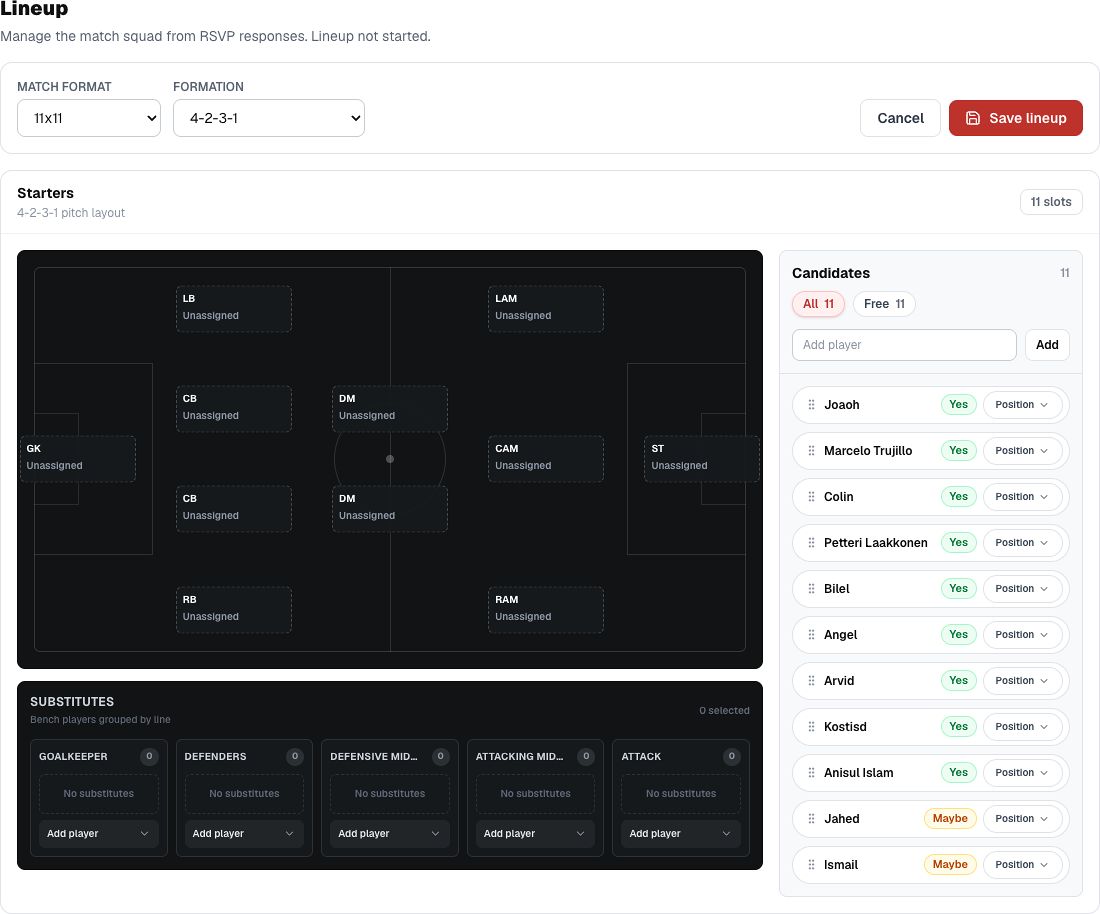
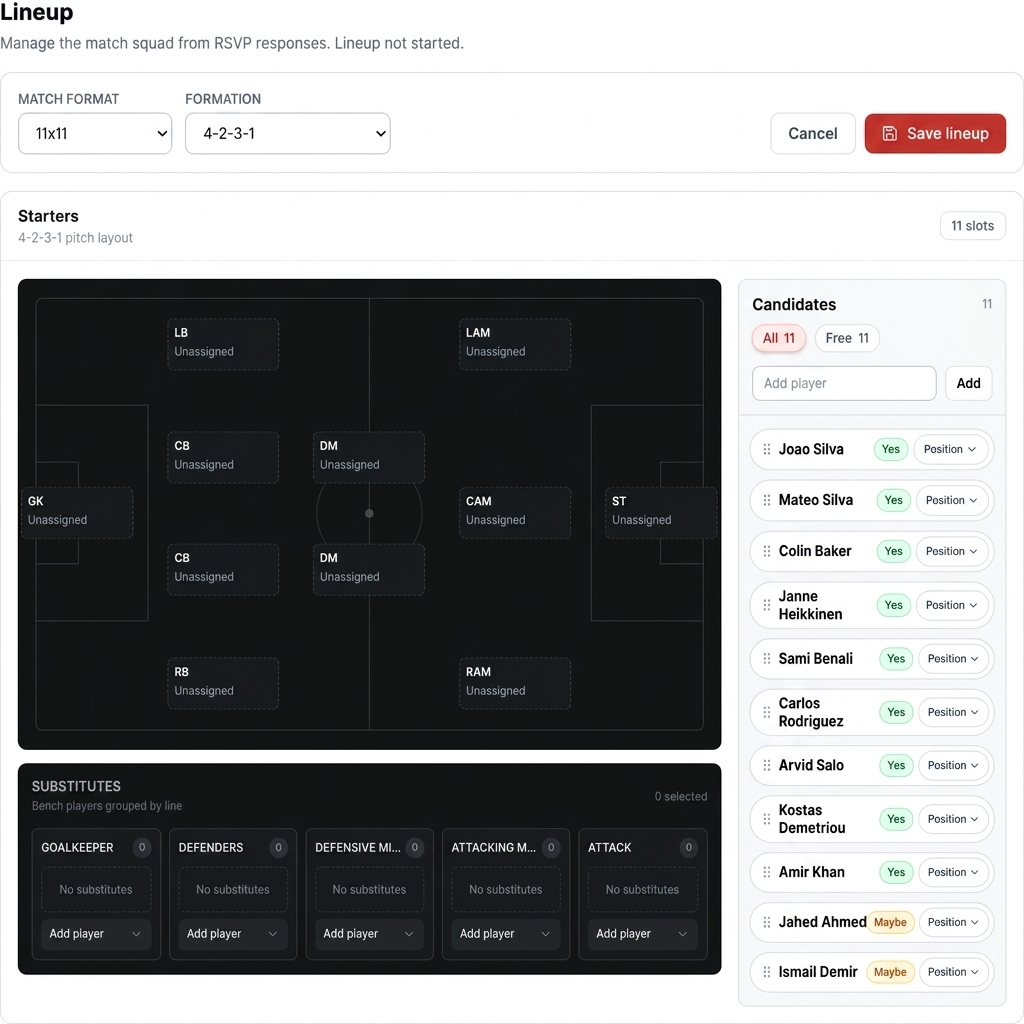
Anonymize BasePitch screenshots and remove 'How I work' section

diff --git a/portfolio-ru/index.html b/portfolio-ru/index.html
@@ -106,15 +106,6 @@
       <div class="note"><p><strong>Подход к внутренним продуктам.</strong> В портфолио описаны роль, сценарий, система и результат. Внутренние данные, списки клиентов, личные данные, учётные данные и прочая чувствительная информация не публикуются.</p></div>
     </section>
 
-    <section class="section">
-      <div class="section-header"><h2>Как я работаю</h2></div>
-      <div class="skill-grid">
-        <article class="skill"><h3>1. Исследую job</h3><p>Формулирую пользовательскую работу и узкие места, собираю качественные и рыночные сигналы, проверяю самые рискованные предположения.</p></article>
-        <article class="skill"><h3>2. Собираю минимальный контур</h3><p>Определяю scope этапа и критерии приёмки, проектирую поток данных и интерфейс, быстро создаю прототип или рабочий продукт.</p></article>
-        <article class="skill"><h3>3. Запускаю и улучшаю</h3><p>Провожу демо, измеряю воронку и операционные эффекты, превращаю обратную связь в следующую продуктовую итерацию.</p></article>
-      </div>
-    </section>
-
     <footer class="footer">Денис Надымов · <a href="../product-manager/">Резюме</a> · <a href="mailto:nadymov.ds@gmail.com">nadymov.ds@gmail.com</a></footer>
   </main>
 </body>

diff --git a/portfolio/index.html b/portfolio/index.html
@@ -100,14 +100,6 @@
       <div class="note"><p><strong>Approach to internal products.</strong> This portfolio describes the role, scenario, system, and outcome. Internal data, client lists, personal data, credentials, and other sensitive information are not published.</p></div>
     </section>
 
-    <section class="section">
-      <div class="section-header"><h2>How I work</h2></div>
-      <div class="skill-grid">
-        <article class="skill"><h3>1. Research the job</h3><p>I clarify the customer job and bottlenecks, collect qualitative and market signals, and test the riskiest assumptions first.</p></article>
-        <article class="skill"><h3>2. Build the minimum working loop</h3><p>I define the scope for the stage, design the data flow and interface, and quickly create a prototype or working product.</p></article>
-        <article class="skill"><h3>3. Launch and improve</h3><p>I run demos, measure funnel and operational outcomes, and turn feedback into the next product iteration.</p></article>
-      </div>
-    </section>
     <footer class="footer">Denis Nadymov · <a href="../product-manager/">Resume (RU)</a> · <a href="mailto:nadymov.ds@gmail.com">nadymov.ds@gmail.com</a></footer>
   </main>
 </body>
